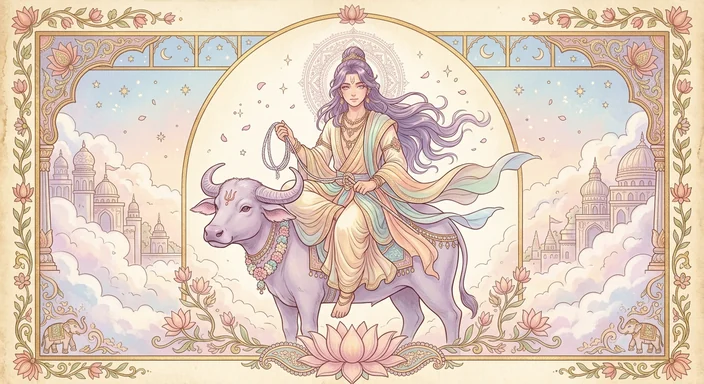
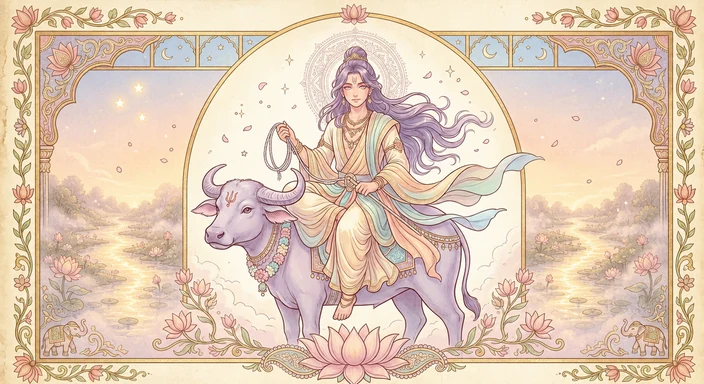
バラニーの画像を差し替え、クリッティカーに画像を追加
- バラニー：背景を新しくした絵に差し替え、alt を更新
- クリッティカー：牡羊に乗るアグニの絵を追加（alt・キャプションつき）

diff --git a/nakshatra/krittika.html b/nakshatra/krittika.html
@@ -265,16 +265,14 @@ footer {
 
 <div class="wrap">
 
-  <!-- 画像ができたら、この下のコメントを外して img/krittika.webp と img/krittika-sm.webp を置く
   <figure class="nk-banner">
     <img src="img/krittika.webp"
          srcset="img/krittika-sm.webp 704w, img/krittika.webp 1408w"
          sizes="(max-width: 760px) 100vw, 720px"
          width="1408" height="768"
-         alt="">
-    <figcaption></figcaption>
+         alt="炎のような金色の髪をした明るい笑顔のアグニが、手のひらに小さな炎を浮かべ、もう片方の手に蓮を持って牡羊に乗る姿。古い紙に描かれた絵巻風のパステル画で、空にはすばるの星の集まり、水面にはたくさんの灯明が浮かび、両わきには炎のような花の木">
+    <figcaption>牡羊に乗るアグニ ―― 手のひらの炎は、迷いを焼き切り、心をあたためる光</figcaption>
   </figure>
-  -->
 
   <dl class="data-card">
     <div class="data-item"><dt>支配星</dt><dd>太陽（スーリヤ）</dd></div>

diff --git a/nakshatra/bharani.html b/nakshatra/bharani.html
@@ -268,7 +268,7 @@ footer {
          srcset="img/bharani-sm.webp 704w, img/bharani.webp 1408w"
          sizes="(max-width: 760px) 100vw, 720px"
          width="1408" height="768"
-         alt="縄を手に、ラベンダー色の水牛に乗るやさしい表情のヤマ。古い紙に描かれた絵巻風のパステル画で、背後には曼荼羅の光輪と雲の上の宮殿、足もとには蓮の花">
+         alt="縄を手に、ラベンダー色の水牛に乗るやさしい表情のヤマ。古い紙に描かれた絵巻風のパステル画で、背後には曼荼羅の光輪。両わきには、蓮のつぼみが咲く光る川と、夕暮れから夜明けへうつる空に小さな3つの星">
     <figcaption>水牛に乗るヤマ ―― 手にした縄は、魂をやさしく導くためのもの</figcaption>
   </figure>
 
